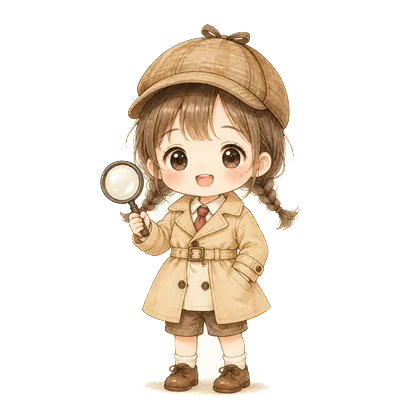
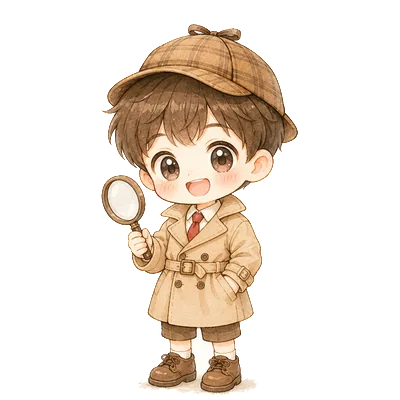
🔍 탐정·스케이터·사파리 캐릭터 남자아이로 교체 + 발 좌표 보정

Changed region(s): [[0.24, 0.06, 0.75, 0.99]]

diff --git a/shop-check.html b/shop-check.html
@@ -10252,12 +10252,12 @@ async function finishBoot(){
     shark_pajama:    { ly:362, by:391, gs:197, ge:203, sx:200, lcx:178, rcx:219 },
     bee_hood:        { ly:346, by:389, gs:186, ge:191, sx:189, lcx:170, rcx:208 },
     ballerina_tutu:  { ly:340, by:390, gs:199, ge:203, sx:201, lcx:192, rcx:209 },
-    detective_coat:  { ly:352, by:390, gs:200, ge:206, sx:203, lcx:182, rcx:226 },
+    detective_coat:  { ly:352, by:390, gs:199, ge:204, sx:201, lcx:176, rcx:228 },
     moon_witch:      { ly:338, by:390, gs:193, ge:198, sx:195, lcx:177, rcx:213 },
     mermaid_tail:    { ly:368, by:392, gs:245, ge:251, sx:248, lcx:214, rcx:270 },
-    safari_explorer: { ly:350, by:390, gs:195, ge:200, sx:198, lcx:179, rcx:216 },
+    safari_explorer: { ly:350, by:390, gs:197, ge:202, sx:199, lcx:172, rcx:224 },
     doctor_nurse:    { ly:348, by:389, gs:205, ge:210, sx:207, lcx:193, rcx:225 },
-    skater_punk:     { ly:350, by:389, gs:198, ge:203, sx:200, lcx:180, rcx:222 },
+    skater_punk:     { ly:356, by:390, gs:204, ge:209, sx:206, lcx:178, rcx:233 },
     snow_fairy:      { ly:358, by:390, gs:197, ge:209, sx:203, lcx:185, rcx:220 },
     cat_butler:      { ly:350, by:389, gs:198, ge:203, sx:200, lcx:183, rcx:220 }
   };
@@ -10425,12 +10425,12 @@ async function finishBoot(){
     shark_pajama:    { cx:198, hw:43, sy:226, len:51, w:18, ss:0, slv:'#BFD8EC', cuff:'#EEF6FC', skin:'#FADCC4' },
     bee_hood:        { cx:189, hw:42, sy:222, len:51, w:18, ss:0, slv:'#F2CE4E', cuff:'#FFF3C8', skin:'#F9DCC2' },
     ballerina_tutu:  { cx:201, hw:38, sy:230, len:50, w:16, ss:1, slv:'#FBD7E2', cuff:'#FFF0F5', skin:'#FBDFC7' },
-    detective_coat:  { cx:203, hw:43, sy:224, len:51, w:17, ss:0, slv:'#DCC39B', cuff:'#F0E3C8', skin:'#F9DBC1' },
+    detective_coat:  { cx:201, hw:43, sy:224, len:51, w:17, ss:0, slv:'#DCC39B', cuff:'#F0E3C8', skin:'#F9DBC1' },
     moon_witch:      { cx:195, hw:42, sy:228, len:50, w:17, ss:0, slv:'#CDB8E4', cuff:'#F1E8FA', skin:'#F8DCC4' },
     mermaid_tail:    { cx:190, hw:40, sy:228, len:50, w:16, ss:1, slv:'#D7F0EC', cuff:'#F2FBFA', skin:'#F8E0CA' },
-    safari_explorer: { cx:198, hw:42, sy:224, len:51, w:17, ss:1, slv:'#D8C69B', cuff:'#EFE6CE', skin:'#F7D8BE' },
+    safari_explorer: { cx:199, hw:42, sy:224, len:51, w:17, ss:1, slv:'#D8C69B', cuff:'#EFE6CE', skin:'#F7D8BE' },
     doctor_nurse:    { cx:207, hw:42, sy:226, len:51, w:17, ss:0, slv:'#FDFBF4', cuff:'#DCEFE4', skin:'#F9DDC6' },
-    skater_punk:     { cx:200, hw:44, sy:222, len:52, w:18, ss:0, slv:'#C9BCE8', cuff:'#EFEAFA', skin:'#FADCC4' },
+    skater_punk:     { cx:206, hw:44, sy:222, len:52, w:18, ss:0, slv:'#C9BCE8', cuff:'#EFEAFA', skin:'#FADCC4' },
     snow_fairy:      { cx:203, hw:43, sy:226, len:51, w:17, ss:0, slv:'#DDEFF8', cuff:'#FAFDFF', skin:'#FBE3CF' },
     cat_butler:      { cx:200, hw:42, sy:228, len:50, w:17, ss:0, slv:'#CFE1EE', cuff:'#FFF6E4', skin:'#F9DCC4' },
   };
